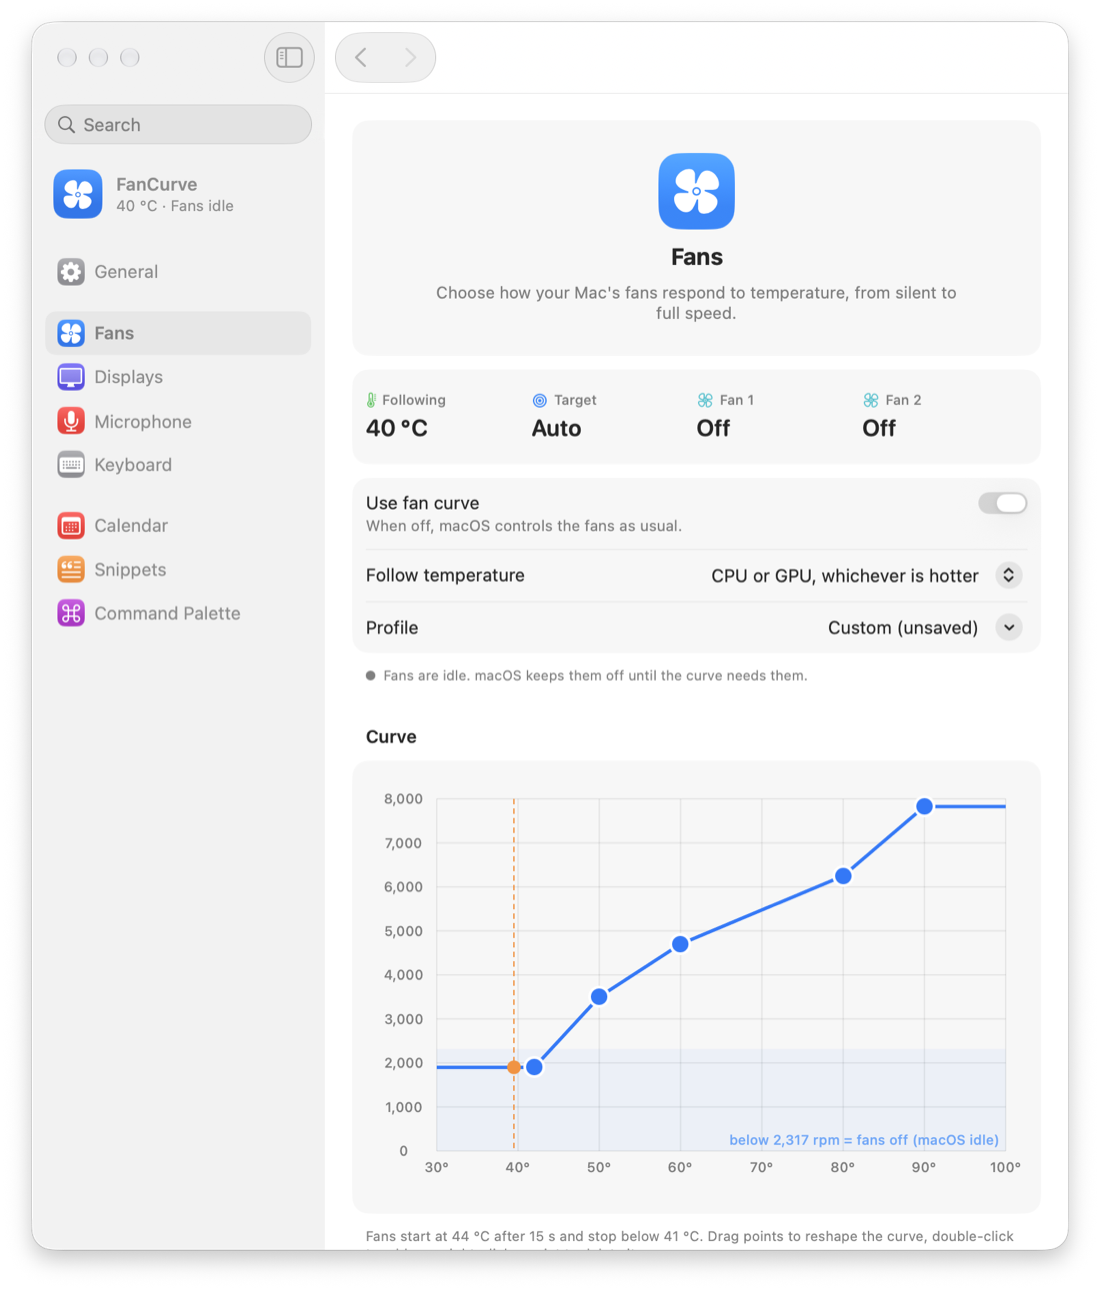
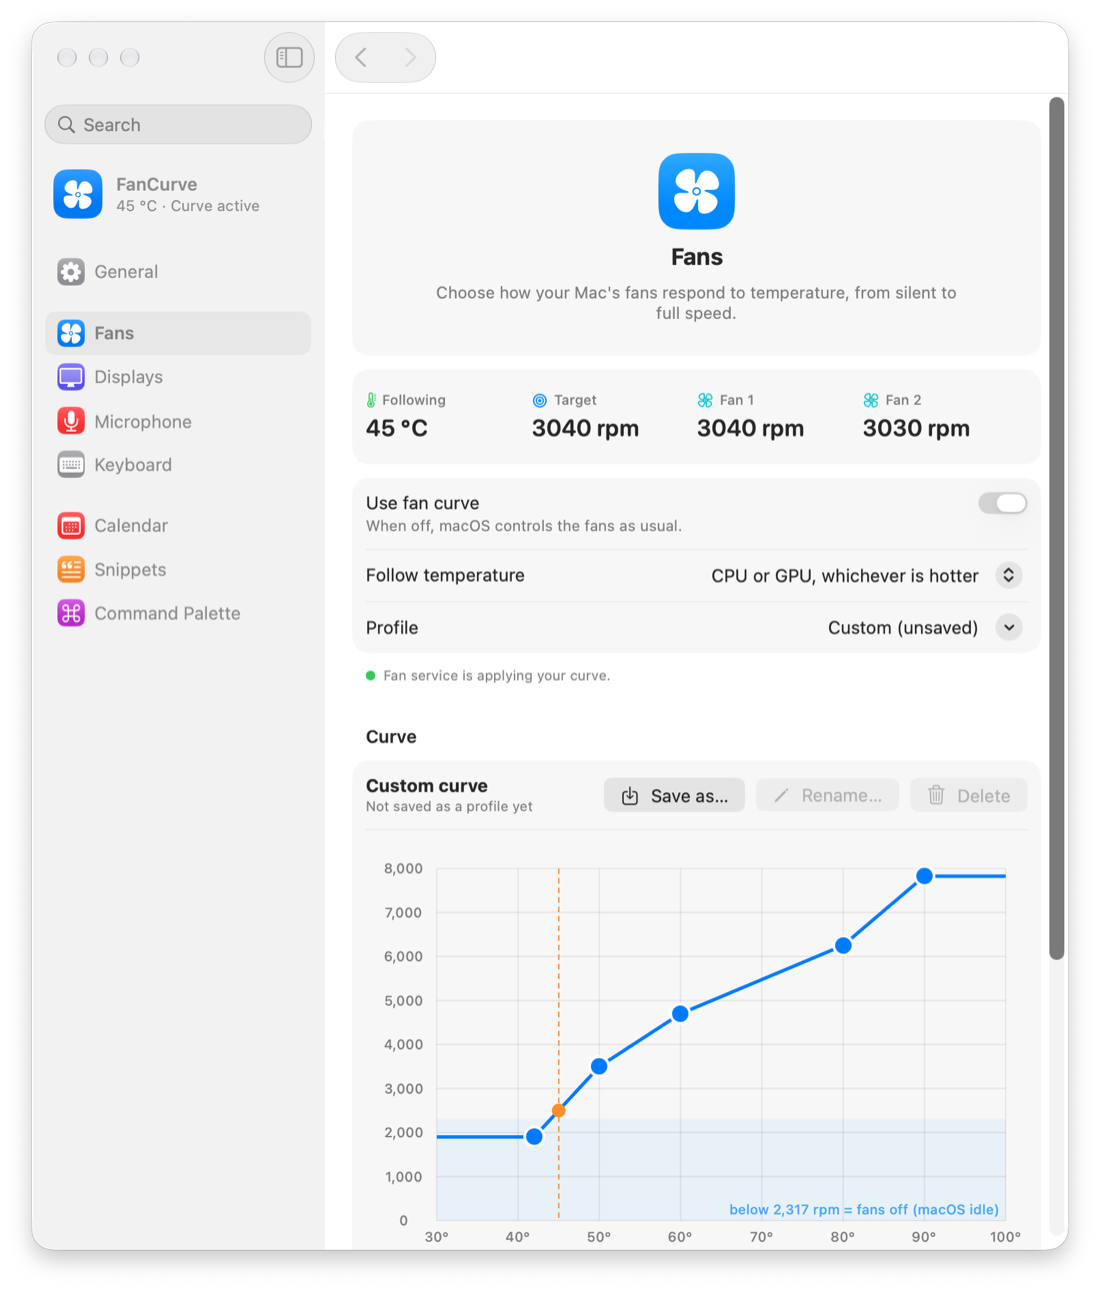
Refresh README screenshots; add Quick Notes, Obsidian and file search images
Recaptured every screenshot from the current build (profile buttons above
the curve, command palette, settings pages) and added the Quick Notes
window, Obsidian palette commands and Spotlight file search.

diff --git a/README.md b/README.md
@@ -66,7 +66,7 @@ A Raycast-style glass search panel:
 - **Calculator:** type `23*1.21`, and pressing Return copies the answer.
 - **FanCurve commands:** turn the fan curve on or off, switch profiles, mute the mic, set external brightness, keyboard cleaning mode.
 - **System commands:** lock screen, sleep, screen saver, toggle dark mode.
-- **Quick Notes (⌃⌥N):** a floating scratchpad like Raycast Notes. Type in the palette and choose *New Quick Note*, or press the shortcut. Notes save as you type, and you can search them from the palette or move one into Obsidian with a click.
+- **Quick Notes:** jot something down straight from the palette (see below).
 - **Spotlight file search** inside the palette, useful when ⌘Space belongs to the palette.
 - **[Obsidian](https://obsidian.md) integration**, like Raycast's Obsidian extension:
   - **Search notes** by title or by text, with a snippet showing the match.
@@ -83,6 +83,22 @@ A Raycast-style glass search panel:
   &nbsp;
   <img src="docs/screenshots/palette-aerospace.png" width="420" alt="AeroSpace commands in the command palette">
 </p>
+
+<p align="center">
+  <img src="docs/screenshots/palette-obsidian.png" width="420" alt="Obsidian commands in the command palette">
+  &nbsp;
+  <img src="docs/screenshots/palette-files.png" width="420" alt="Spotlight file search in the command palette">
+</p>
+
+### Quick Notes (⌃⌥N)
+
+<p align="center">
+  <img src="docs/screenshots/quick-notes.png" width="560" alt="Quick Notes floating window with a note list and editor">
+</p>
+
+- **Floating scratchpad** like Raycast Notes: a note list beside a distraction-free editor, saved as you type, and optionally kept on top.
+- **Create from the palette:** type anything and choose *New Quick Note*, or search your notes with *Search Quick Notes*.
+- **Move to Obsidian:** one click moves a note into your vault's `Notes/` folder when it's worth keeping.
 
 ### Calendar and meetings
 
